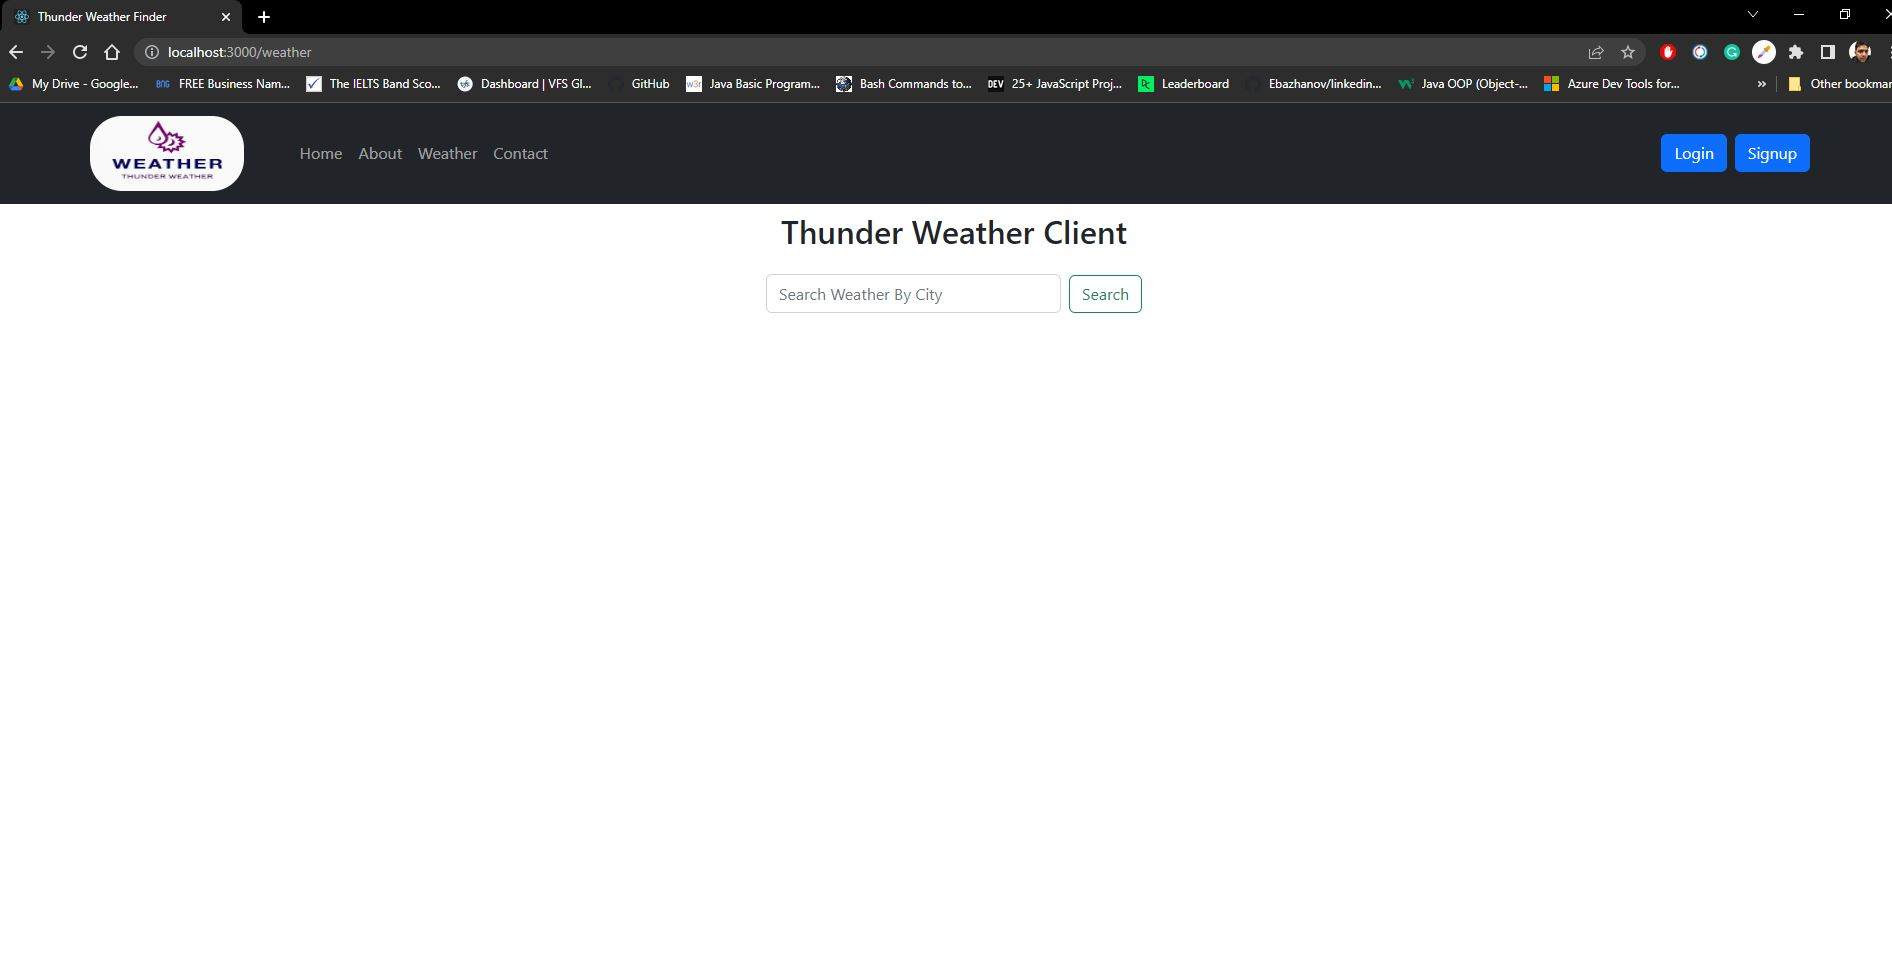
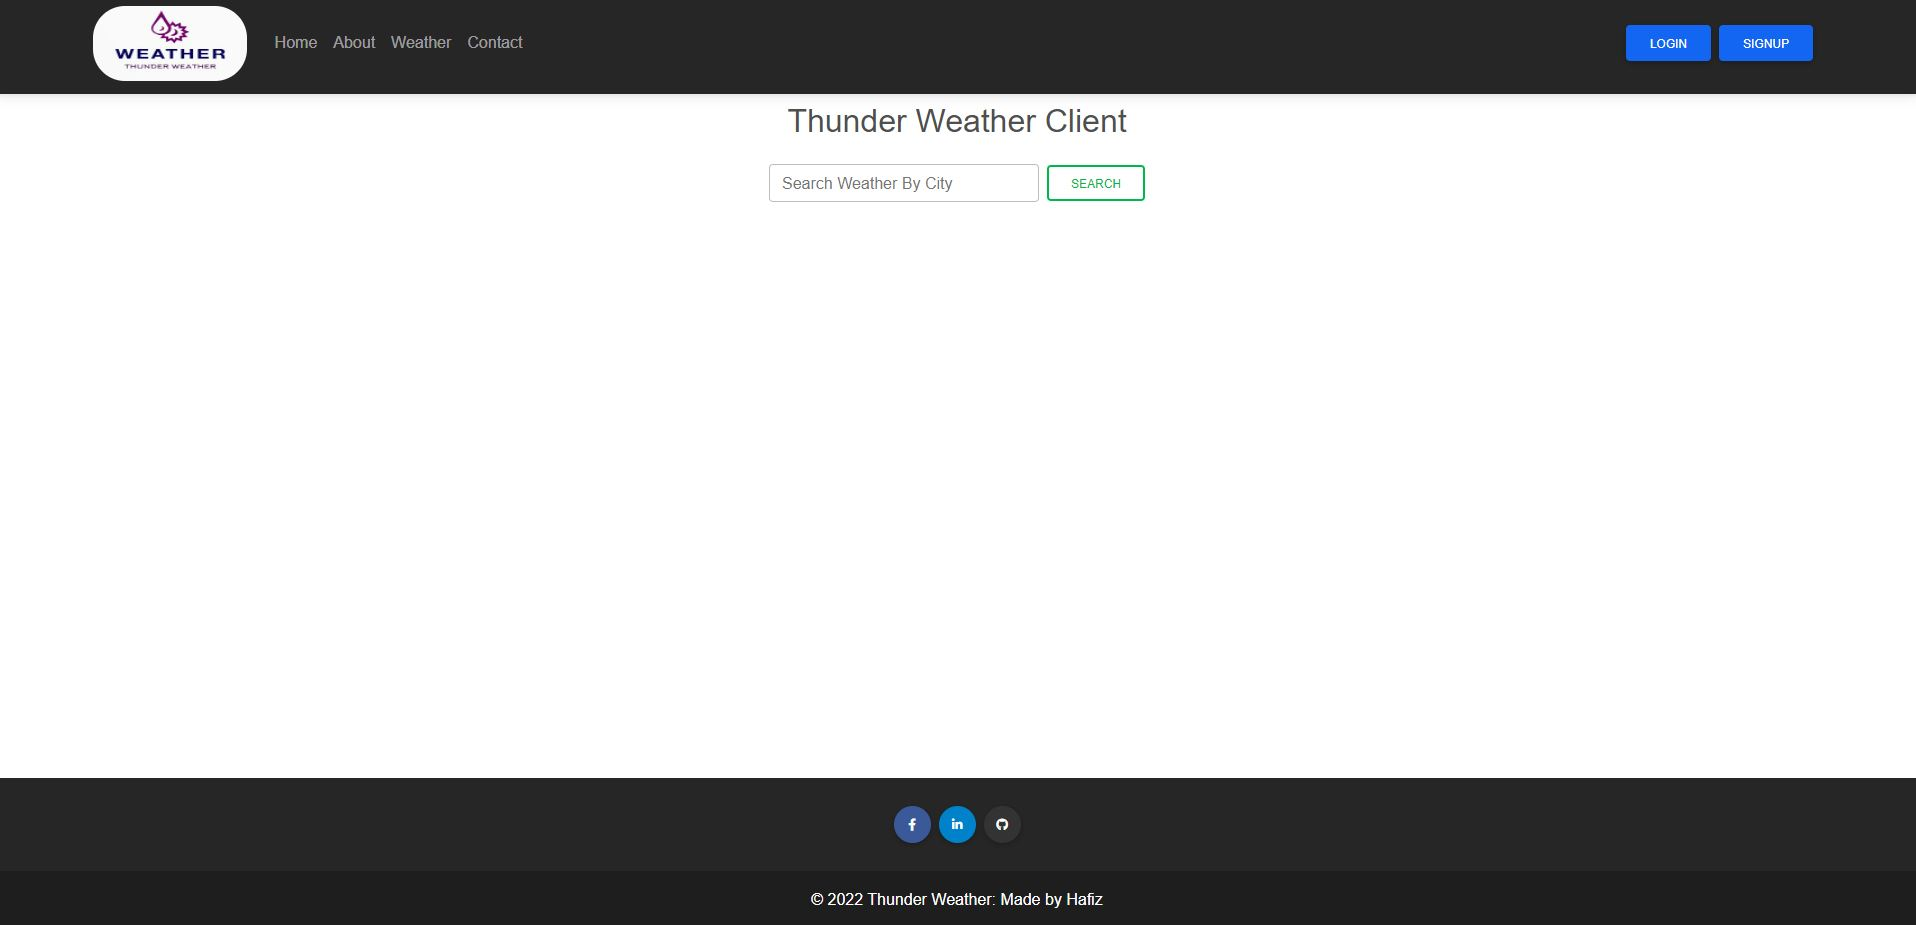
Added the Footer component and social links

diff --git a/src/components/Footer.jsx b/src/components/Footer.jsx
@@ -1,0 +1,41 @@
+import React from 'react'
+
+const Footer = () => {
+  return (
+    <>
+      <footer style={{ position: 'fixed', left: 0, right: 0, bottom: 0 }} className="bg-dark text-center text-white">
+        <div className="container p-4 pb-0">
+          <section className="mb-4">
+            <a
+              className="btn btn-primary btn-floating m-1"
+              style={{ backgroundColor: "#3b5998" }}
+              href="https://www.facebook.com/khurram.javid.47/"
+              role="button"
+            ><i className="fab fa-facebook-f"></i
+            ></a>
+            <a
+              className="btn btn-primary btn-floating m-1"
+              style={{ backgroundColor: "#0082ca" }}
+              href="https://www.linkedin.com/in/hafiz-javid-6a0810225/"
+              role="button"
+            ><i className="fab fa-linkedin-in"></i
+            ></a>
+            <a
+              className="btn btn-primary btn-floating m-1"
+              style={{ backgroundColor: "#333333" }}
+              href="https://github.com/hafizkh"
+              role="button"
+            ><i className="fab fa-github"></i
+            ></a>
+          </section>
+        </div>
+
+        <div className="text-center p-3" style={{ backgroundColor: "rgba(0, 0, 0, 0.2)" }}>
+          © 2022 Thunder Weather: Made by Hafiz
+        </div>
+      </footer>
+    </>
+  )
+}
+
+export default Footer

diff --git a/src/App.js b/src/App.js
@@ -8,6 +8,7 @@ import NotFound from './components/NotFound'
 import Weather from './components/Weather'
 import WeatherCard from './components/WeatherCard';
 import {BrowserRouter as Router, Routes, Route} from 'react-router-dom'
+import Footer from './components/Footer';
 
 
 function App() {
@@ -40,7 +41,7 @@ const apiKey = process.env.REACT_APP_API
         <Route exact path='/weatherCard' element={<WeatherCard cityData={cityData} setCityData={setCityData} />} />
         <Route path='/*' element={<NotFound />} />
       </Routes>
-
+<Footer/>
     </Router>
   </div>
   </>

diff --git a/public/index.html b/public/index.html
@@ -18,6 +18,7 @@
   <script src="https://unpkg.com/react-dom/umd/react-dom.production.min.js" crossorigin></script>
 
   <script src="https://unpkg.com/react-bootstrap@next/dist/react-bootstrap.min.js" crossorigin></script>
+  <link href="https://use.fontawesome.com/releases/v5.15.1/css/all.css" rel="stylesheet" />
   <!--
       Notice the use of %PUBLIC_URL% in the tags above.
       It will be replaced with the URL of the `public` folder during the build.

diff --git a/src/index.js b/src/index.js
@@ -3,6 +3,7 @@ import ReactDOM from 'react-dom/client';
 import App from './App';
 import reportWebVitals from './reportWebVitals';
 import 'bootstrap/dist/css/bootstrap.min.css';
+import 'mdb-react-ui-kit/dist/css/mdb.min.css'
 
 const root = ReactDOM.createRoot(document.getElementById('root'));
 root.render(
